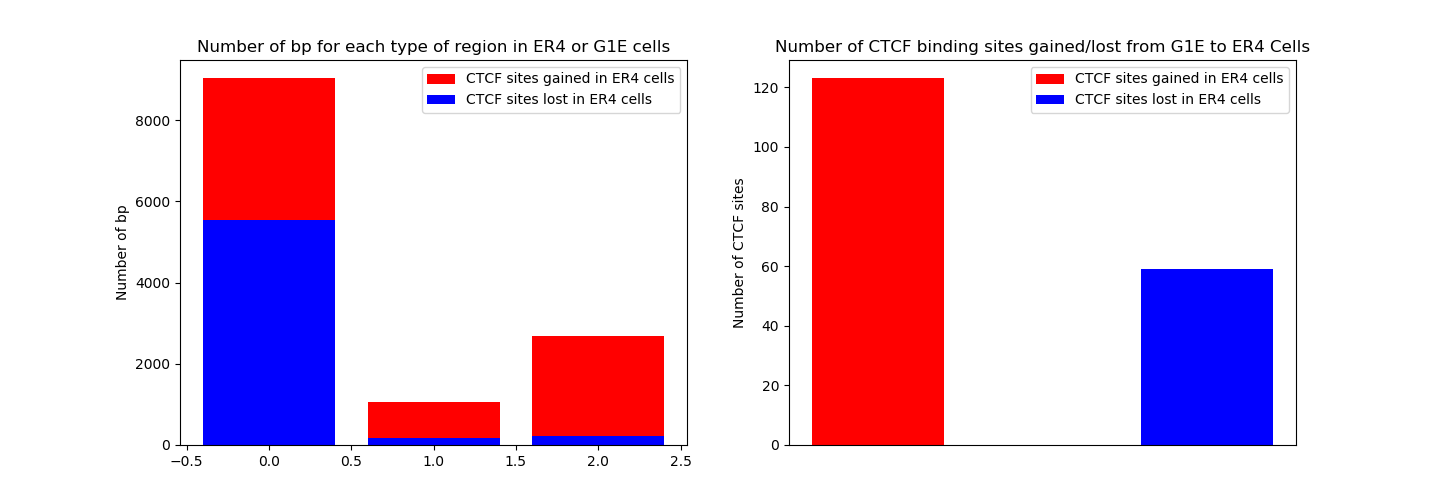
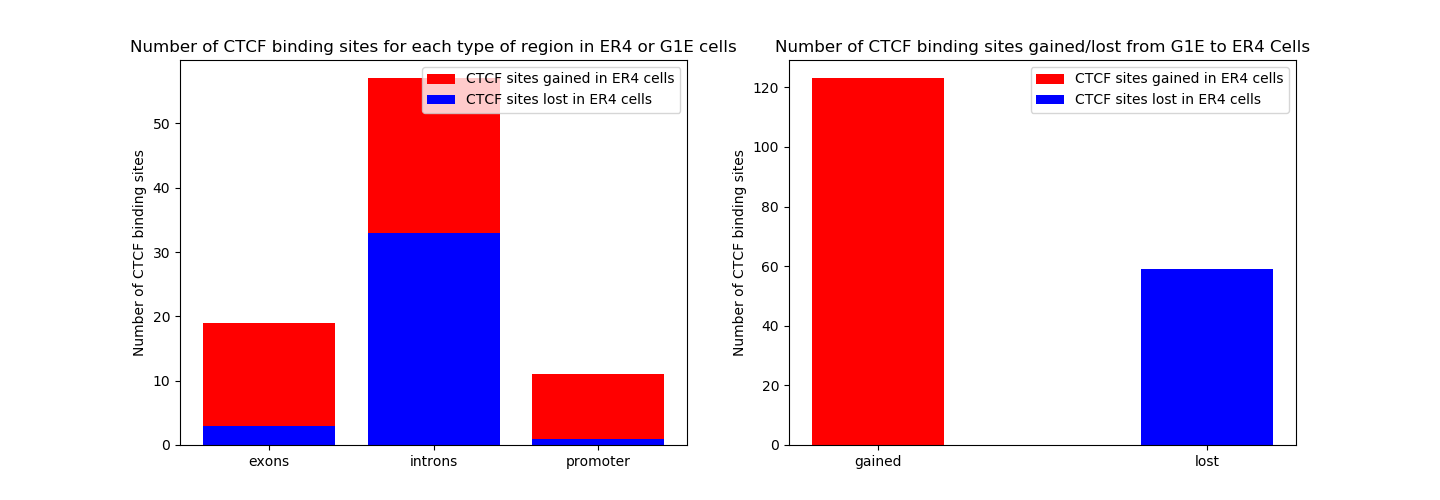
new graphs

diff --git a/class6/chip_seq.py b/class6/chip_seq.py
@@ -34,51 +34,109 @@ for line in f3:
 # plot number of CTCF sites lost and gained in ER4 cells from G1E cells
 # also see what that site is by referencing dictionary
 sites_gained = 0
-features_gained = []
+#features_gained = []
+biglist_gained = []
 for i, line in enumerate(f1):
+    features_gained = []
     sites_gained += 1
     fields = line.rstrip("\r\n").split("\t")
     g_start = int(fields[1])
     g_end = int(fields[2])
     for bp in range(g_start, g_end):
         if bp in feature_dict:
-            g_feat = feature_dict[bp]
-            features_gained.append(g_feat)
-#print(features_gained)
-gained_dict = {i:features_gained.count(i) for i in features_gained}
+            g_feat = feature_dict[bp] # get value from dictionary
+            if g_feat not in features_gained:
+                features_gained.append(g_feat)
+    biglist_gained.append(features_gained)
+    #features_gained = []    
+#print((biglist_gained))
+exons_gained = 0
+introns_gained = 0
+promoter_gained = 0
+for i in biglist_gained:
+    if len(i) == 0:
+        continue
+    for sublist in i:
+        if sublist == "intron":
+            introns_gained += 1
+        if sublist == "exon":
+            exons_gained += 1
+        if sublist == "promoter":
+            promoter_gained += 1
+# print("gained")
+# print(exons_gained)
+# print(introns_gained)
+# print(promoter_gained)
+
+#gained_dict = {i:biglist_gained.count(i) for i in biglist_gained} # from stackoverflow
 #print(gained_dict)
-
-
 sites_lost = 0
-features_lost = []
+biglist_lost = []
 for i, line in enumerate(f2):
+    features_lost = []
     sites_lost += 1
     fields = line.rstrip("\r\n").split("\t")
     l_start = int(fields[1])
     l_end = int(fields[2])
     for bp in range(l_start, l_end):
         if bp in feature_dict:
-            l_feat = feature_dict[bp]
-            features_lost.append(l_feat)
-#print(features_lost)
-lost_dict = {i:features_lost.count(i) for i in features_lost}
-#print(lost_dict)
+            l_feat = feature_dict[bp] # get value from dictionary
+            if l_feat not in features_lost:
+                features_lost.append(l_feat)
+    biglist_lost.append(features_lost)
+      
+#print((biglist_gained))
+exons_lost = 0
+introns_lost = 0
+promoter_lost = 0
+for i in biglist_lost:
+    if len(i) == 0:
+        continue
+    for sublist in i:
+        if sublist == "intron":
+            introns_lost += 1
+        if sublist == "exon":
+            exons_lost += 1
+        if sublist == "promoter":
+            promoter_lost += 1
+            
+# print("lost")
+# print(exons_lost)
+# print(introns_lost)
+# print(promoter_lost)
 
+#print(features_lost)
+#lost_dict = {i:features_lost.count(i) for i in features_lost} # from stackoverflow
+#print(lost_dict)
+#counts = [sites_gained, sites_lost]
+ticks = [0, 0.25]
+ticks2 = [0, 1, 2]
+tick_labels = ["gained", "lost"]
+tick_labels2 = ["exons", "introns", "promoter"]
 fig, (ax1, ax2) = plt.subplots(ncols=2, figsize=(20,5))
-ax1.bar(range(len(gained_dict)), list(gained_dict.values()), align='center', color="r", label="CTCF sites gained in ER4 cells")
-ax1.set_xticks(range(len(gained_dict)), list(gained_dict.keys()))
-ax1.bar(range(len(lost_dict)), list(lost_dict.values()), align='center', color="b", label="CTCF sites lost in ER4 cells")
+ax1.bar(0, exons_gained, color="red", label="CTCF sites gained in ER4 cells")
+ax1.bar(1, introns_gained, color="red")
+ax1.bar(2, promoter_gained, color="red")
+ax1.bar(0, exons_lost, color="blue", label="CTCF sites lost in ER4 cells")
+ax1.bar(1, introns_lost, color="blue")
+ax1.bar(2, promoter_lost, color="blue")
+ax1.set_xticks(ticks2)
+ax1.set_xticklabels(tick_labels2)
+#ax1.bar(range(len(gained_dict)), list(gained_dict.values()), align='center', color="r", label="CTCF sites gained in ER4 cells")
+#ax1.set_xticks(range(len(gained_dict)), list(gained_dict.keys()))
+#ax1.bar(range(len(lost_dict)), list(lost_dict.values()), align='center', color="b", label="CTCF sites lost in ER4 cells")
 #ax1.set_xticks(range(len(lost_dict)), list(lost_dict.keys()))
-ax1.set_ylabel("Number of bp")
-ax1.set_title("Number of bp for each type of region in ER4 or G1E cells")
+ax1.set_ylabel("Number of CTCF binding sites")
+#ax1.xticks(range(len(gainied_dict)), range(len(lost_dict)), ("introns", "promotor", "exons"))
+ax1.set_title("Number of CTCF binding sites for each type of region in ER4 or G1E cells")
 ax1.legend()
 ax2.bar(0, sites_gained, width=0.1, color="r", align="center", label="CTCF sites gained in ER4 cells")
-ax2.bar(.25, sites_lost, width=0.1, color="b", align="center", label="CTCF sites lost in ER4 cells")
-ax2.set_xticks([])
-#ax2.set_xticklabels("gained", "lost")
-ax2.set_ylabel("Number of CTCF sites")
+ax2.bar(0.25, sites_lost, width=0.1, color="b", align="center", label="CTCF sites lost in ER4 cells")
+ax2.set_xticks(ticks)
+ax2.set_xticklabels(tick_labels)
+ax2.set_ylabel("Number of CTCF binding sites")
 ax2.set_title("Number of CTCF binding sites gained/lost from G1E to ER4 Cells")
 ax2.legend()
-plt.show()
+#plt.show()
 fig.savefig("chip.png")
 plt.close(fig)
